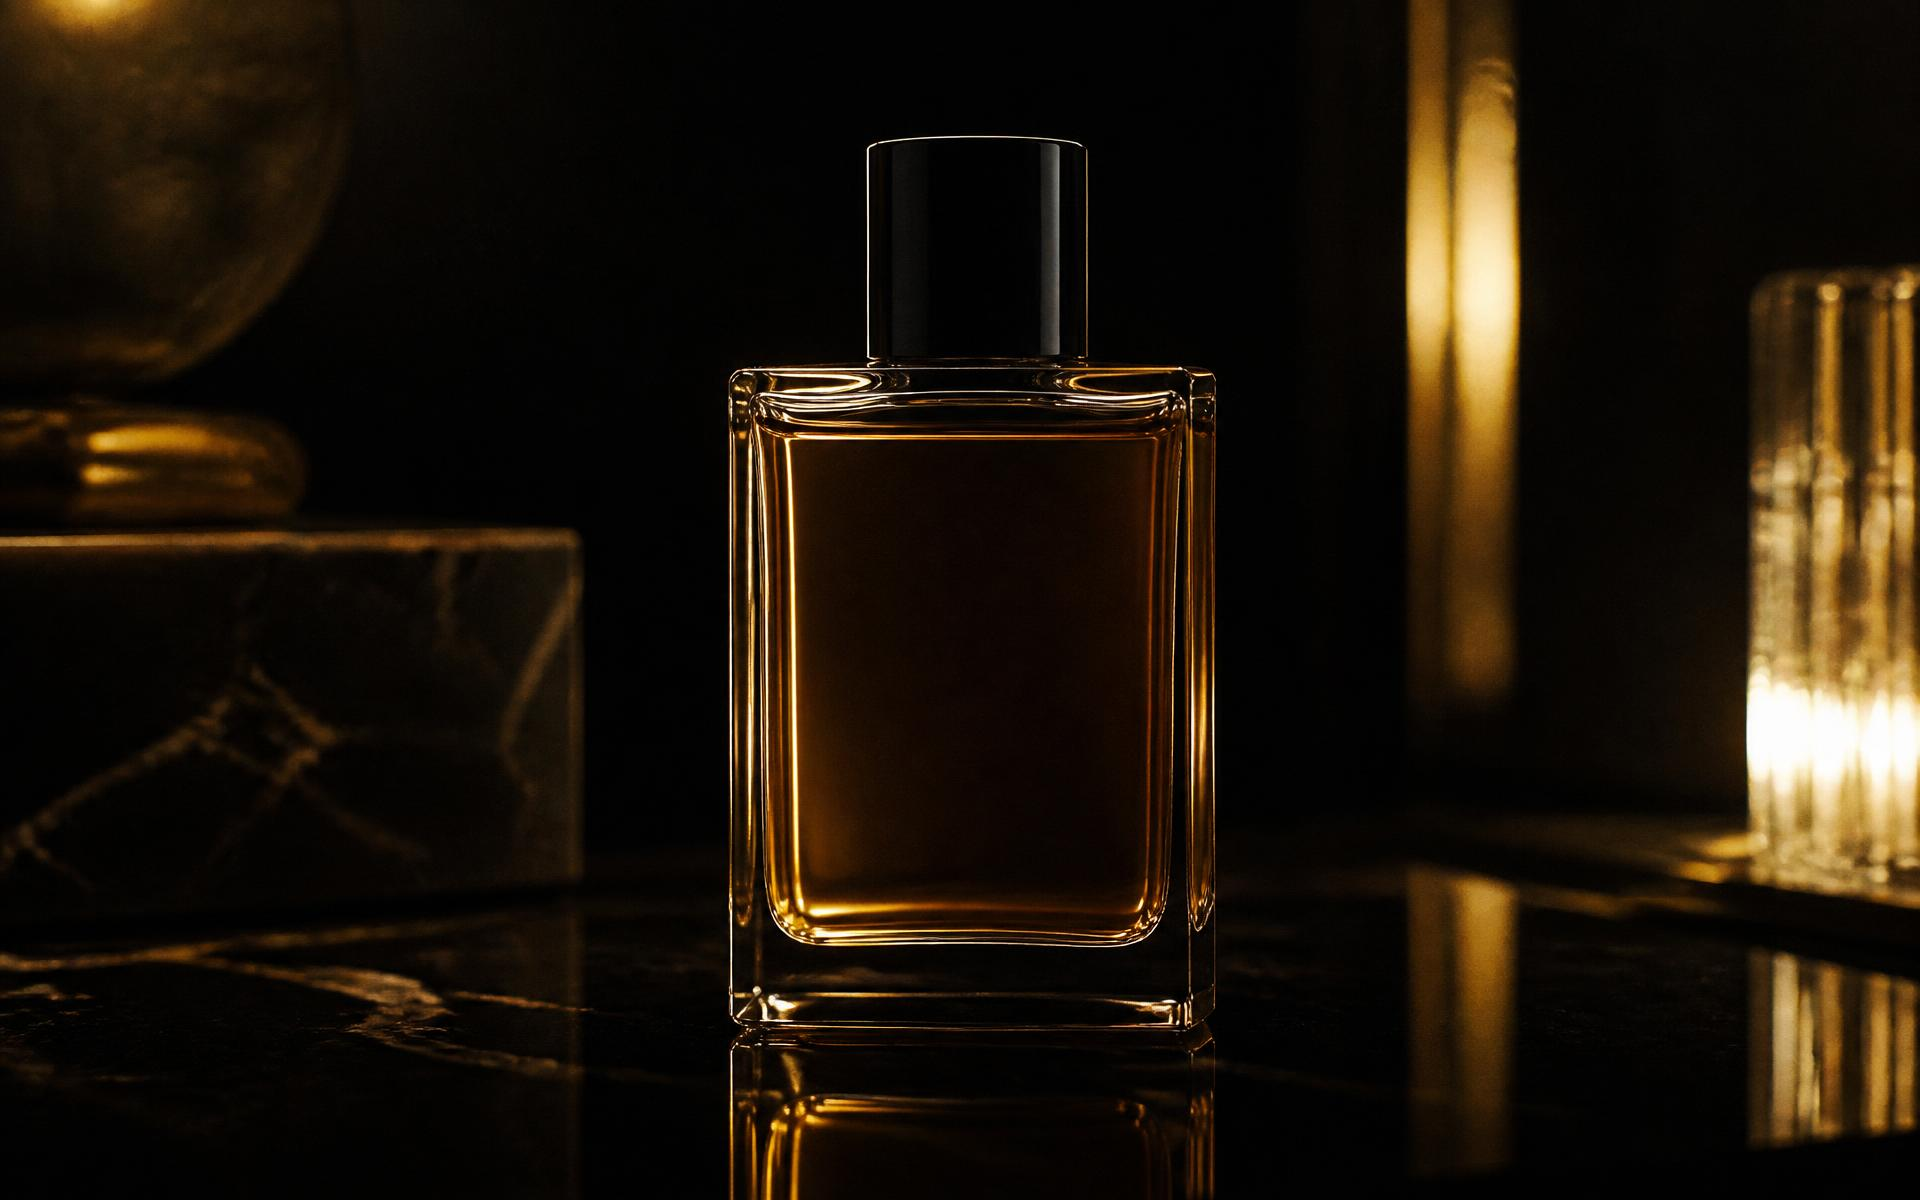
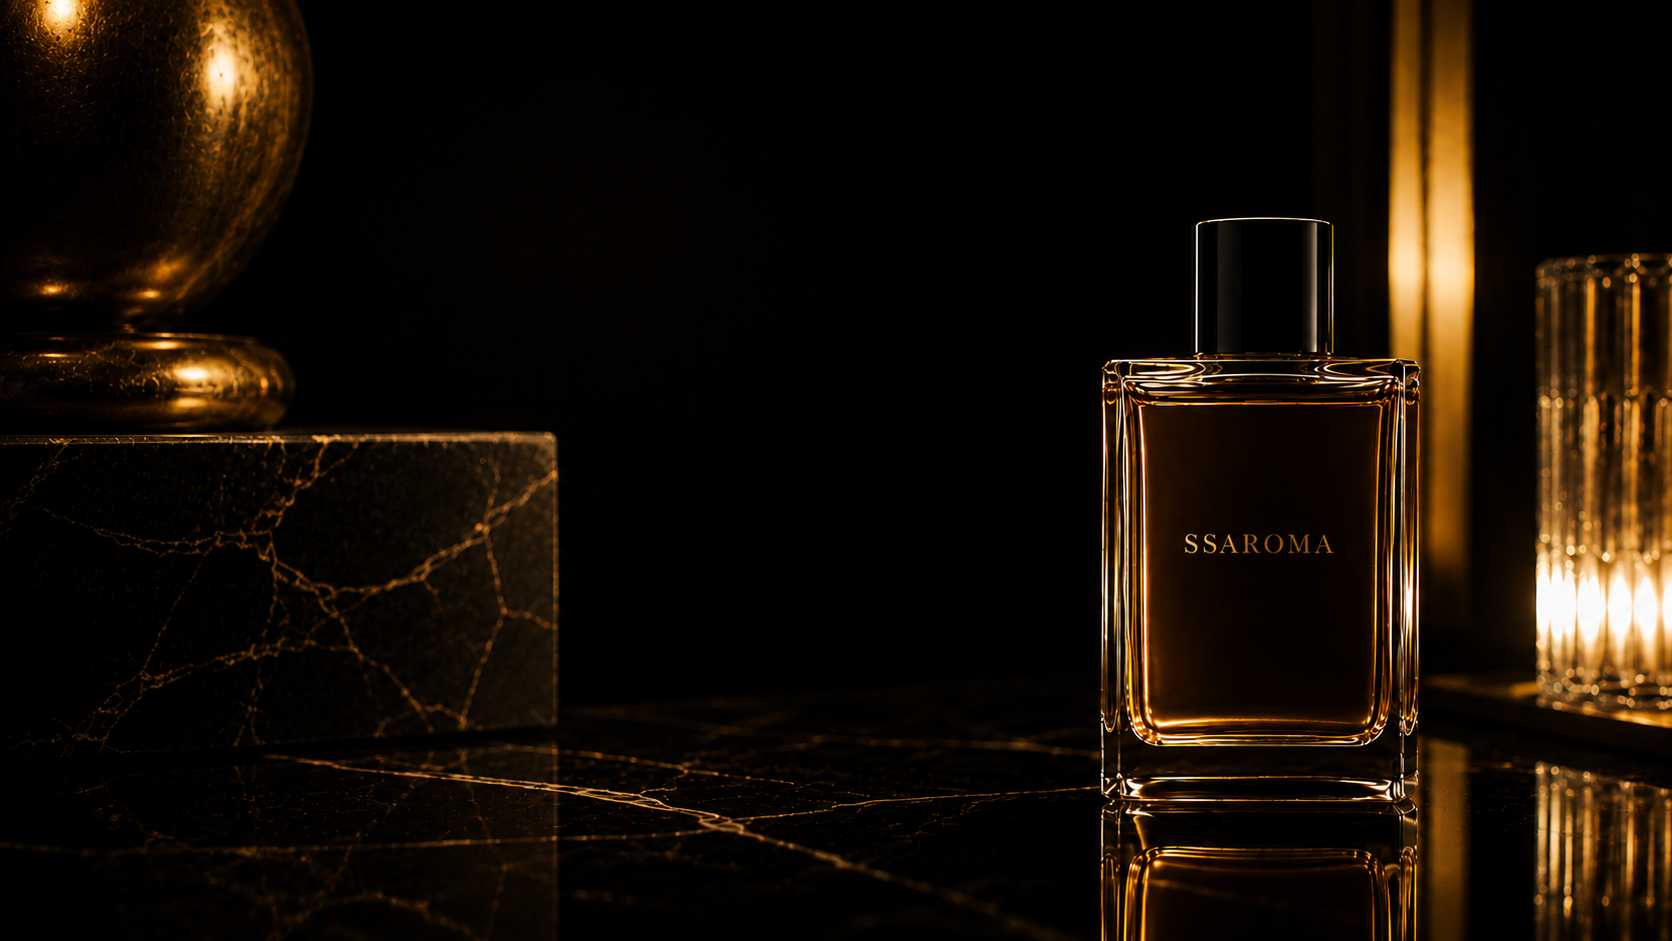
before gpt

diff --git a/src/components/ssaroma/Hero-1.tsx b/src/components/ssaroma/Hero-1.tsx
@@ -1,0 +1,90 @@
+import { motion, useReducedMotion, useScroll, useTransform } from "framer-motion";
+import { useRef } from "react";
+import heroPoster from "@/assets/hero-poster.jpg";
+import { LINKS } from "@/lib/ssaroma";
+
+export function Hero() {
+  const ref = useRef<HTMLElement>(null);
+  const reduced = useReducedMotion();
+  const { scrollYProgress } = useScroll({ target: ref, offset: ["start start", "end start"] });
+  const scale = useTransform(scrollYProgress, [0, 1], [1, 1.055]);
+  const y = useTransform(scrollYProgress, [0, 1], ["0%", "5%"]);
+
+  const rise = (delay: number) =>
+    reduced
+      ? {}
+      : {
+          initial: { opacity: 0, y: 24 },
+          animate: { opacity: 1, y: 0 },
+          transition: { duration: 1.15, delay, ease: [0.22, 1, 0.36, 1] as const },
+        };
+
+  return (
+    <section
+      id="top"
+      ref={ref}
+      className="bg-ink relative h-[100svh] min-h-[680px] w-full overflow-hidden"
+    >
+      <motion.div className="absolute inset-0" {...(reduced ? {} : { style: { scale, y } })}>
+        <img
+          src={heroPoster}
+          alt="Amber fragrance bottle illuminated in the intimate light of the boutique"
+          className="absolute inset-0 h-full w-full object-cover object-[58%_center] sm:object-center"
+          width={1920}
+          height={1200}
+          fetchPriority="high"
+        />
+        <div className="bg-ink/50 absolute inset-0" />
+      </motion.div>
+
+      <div className="relative z-10 mx-auto flex h-full max-w-[1480px] flex-col justify-end px-5 pb-20 sm:px-8 md:pb-24 lg:px-12 lg:pb-28">
+        <div className="max-w-[870px] lg:ml-[5%] ">
+          {/* <motion.p className="text-gold editorial-kicker" {...rise(0.12)}> */}
+            {/* Fragrance boutique · Peshawar */}
+          {/* </motion.p> */}
+
+          <motion.h1
+            className="text-cream font-display mt-7 max-w-[14ch] text-[3.4rem] leading-[0.92] font-light tracking-[-0.035em] sm:text-[4.8rem] md:text-[6.2rem] lg:text-[7.15rem]"
+            {...rise(0.24)}
+          >
+            The one they remember you by.
+          </motion.h1>
+
+          <motion.p
+            className="text-cream/72 mt-8 max-w-[34rem] text-[0.95rem] leading-[1.8] sm:text-base"
+            {...rise(0.38)}
+          >
+            Discover your signature at SSAROMA - an intimate fragrance house where time, skin and
+            instinct make the final choice.
+          </motion.p>
+
+          <motion.div
+            className="mt-11 flex flex-wrap items-center gap-x-11 gap-y-5"
+            {...rise(0.52)}
+          >
+            <a
+              href="#visit"
+              className="link-underlined arrow-shift text-cream editorial-kicker hover:text-gold transition-colors duration-300"
+            >
+              Plan your visit{" "}
+              <span className="arrow ml-2" aria-hidden="true">
+                →
+              </span>
+            </a>
+            <a
+              href={LINKS.store}
+              className="link-rule text-cream/62 hover:text-cream editorial-kicker transition-colors duration-300"
+            >
+              Browse fragrances ↗
+            </a>
+          </motion.div>
+        </div>
+      </div>
+
+      <div className="absolute right-12 bottom-11 z-10 hidden items-end gap-5 lg:flex">
+        <span className="text-cream/46 editorial-kicker text-[0.58rem]">34° 01′ N · Peshawar</span>
+        <span className="bg-cream/35 block h-px w-14" />
+      </div>
+    </section>
+  );
+}
